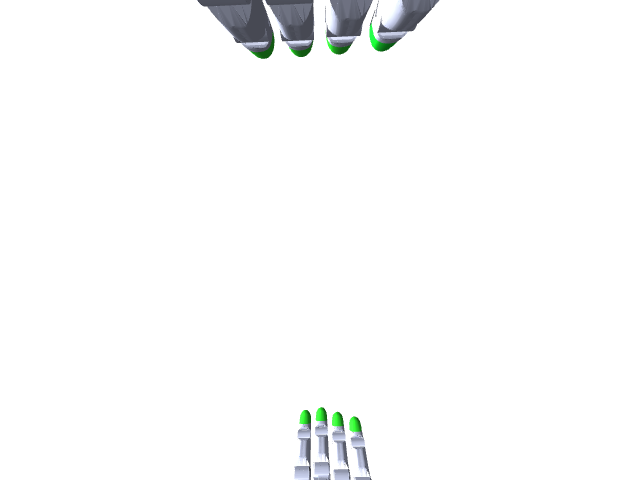
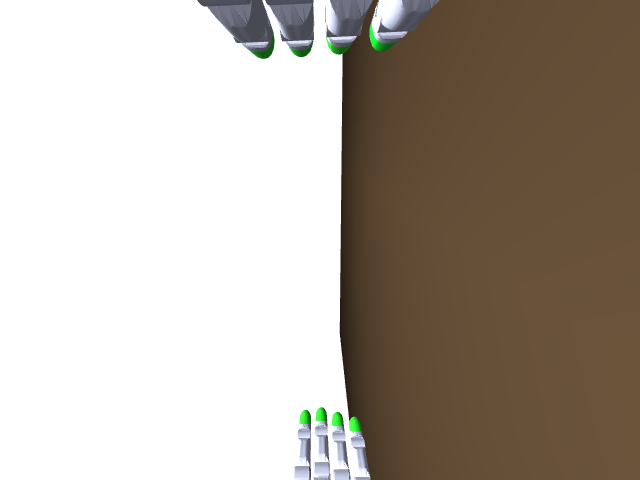
setup_flexiv: restore the default bench table
Table top back at z = 0 with the hands 0.16 m above it; the Rizon bases sit
0.25 m above the tabletop at its back edge. The viewer opens looking at the
hands.

diff --git a/setup_flexiv/build_setup.py b/setup_flexiv/build_setup.py
@@ -71,7 +71,7 @@ ADAPTER_MASS_KG = 0.12
 PLACEMENT = {
     "half_span": 0.25,                   # root x = 0.015 -/+ half_span
     "root_z": 0.0,
-    "base_offset": (0.0, 0.0, -0.25),    # (outward along x, y, z) of the base in its root, metres
+    "base_offset": (0.0, 0.0, 0.25),     # (outward along x, y, z) of the base in its root, metres
     "base_tilt_deg": 45.0,               # each base's joint-1 axis leans this far outward from vertical (angled bracket)
     "base_yaw_deg": 135.0,               # right base's turn about its own (tilted) axis; the left one is mirrored: 180 - yaw
     "mount_roll_deg": {"left": -270.0, "right": 270.0},   # the hand's roll on the adapter, about the flange axis
@@ -80,12 +80,12 @@ PLACEMENT = {
 # (HOME_HAND_STYLE "palm_down" lays them flat instead: palms down, thumbs inward). Sharpa hand frame: fingers +z, palm faces +x, thumb on +y
 # (right) / -y (left).
 # x / y are where the ego camera (default bench calibration) saw them at 34% / 67% of the image width and 61% of its
-# height at z = 0.16; the hands were then lowered 0.5 m (the table is out for now) and spread to 0.36 m apart about
-# their midpoint, then moved 0.20 m forward.
-HOME_HANDS = {"left": [-0.200, 0.520, -0.34], "right": [0.160, 0.520, -0.34]}
+# height at z = 0.16; the hands were then spread to 0.36 m apart about their midpoint and moved 0.20 m forward.
+HOME_HANDS = {"left": [-0.200, 0.520, 0.16], "right": [0.160, 0.520, 0.16]}
 HOME_HAND_STYLE = "on_edge"
 HOME_FINGER_PITCH_UP_DEG = 0.0
-INCLUDE_TABLE = False                    # the default bench's table (and its hand-table contact pairs); off for now
+INCLUDE_TABLE = True                     # the default bench's table (and its hand-table contact pairs)
+TABLE_TOP_Z = 0.0                        # the default bench's: 0.16 m under the hands
 RIG_MID_X = 0.015
 ARM_RGBA = "0.92 0.92 0.93 1"
 PEDESTAL_RGBA = "0.25 0.25 0.27 1"
@@ -183,8 +183,13 @@ def station_frames(placement):
 
 def scene_tree(placement=PLACEMENT, bench=DEFAULT_BENCH, table=INCLUDE_TABLE):
     """The default bench with its two YAM arms replaced by Rizon 4 stations (no keyframe yet); without `table`, the
-    table body and every contact pair naming its geom are left out."""
+    table body and every contact pair naming its geom are left out; with it, its top is moved to TABLE_TOP_Z."""
     root = ET.parse(bench).getroot()
+    if table:
+        body = root.find("worldbody/body[@name='table']")
+        half = float(body.find("geom").get("size").split()[2])
+        x, y, _ = (float(v) for v in body.get("pos").split())
+        body.set("pos", _v([x, y, TABLE_TOP_Z - half]))
     if not table:
         world0 = root.find("worldbody")
         world0.remove(world0.find("body[@name='table']"))

diff --git a/setup_flexiv/view_setup.py b/setup_flexiv/view_setup.py
@@ -21,7 +21,7 @@ if m.nkey:
     mujoco.mj_resetDataKeyframe(m, d, max(mujoco.mj_name2id(m, mujoco.mjtObj.mjOBJ_KEY, "home"), 0))
 mujoco.mj_forward(m, d)
 with mujoco.viewer.launch_passive(m, d) as v:
-    v.cam.lookat[:] = (0.015, 0.0, 0.25)
+    v.cam.lookat[:] = (0.015, 0.25, 0.20)
     v.cam.distance, v.cam.azimuth, v.cam.elevation = 2.0, -90, -30   # front: from the far side of the table
     while v.is_running():
         mujoco.mj_forward(m, d)          # kinematics only; no mj_step
